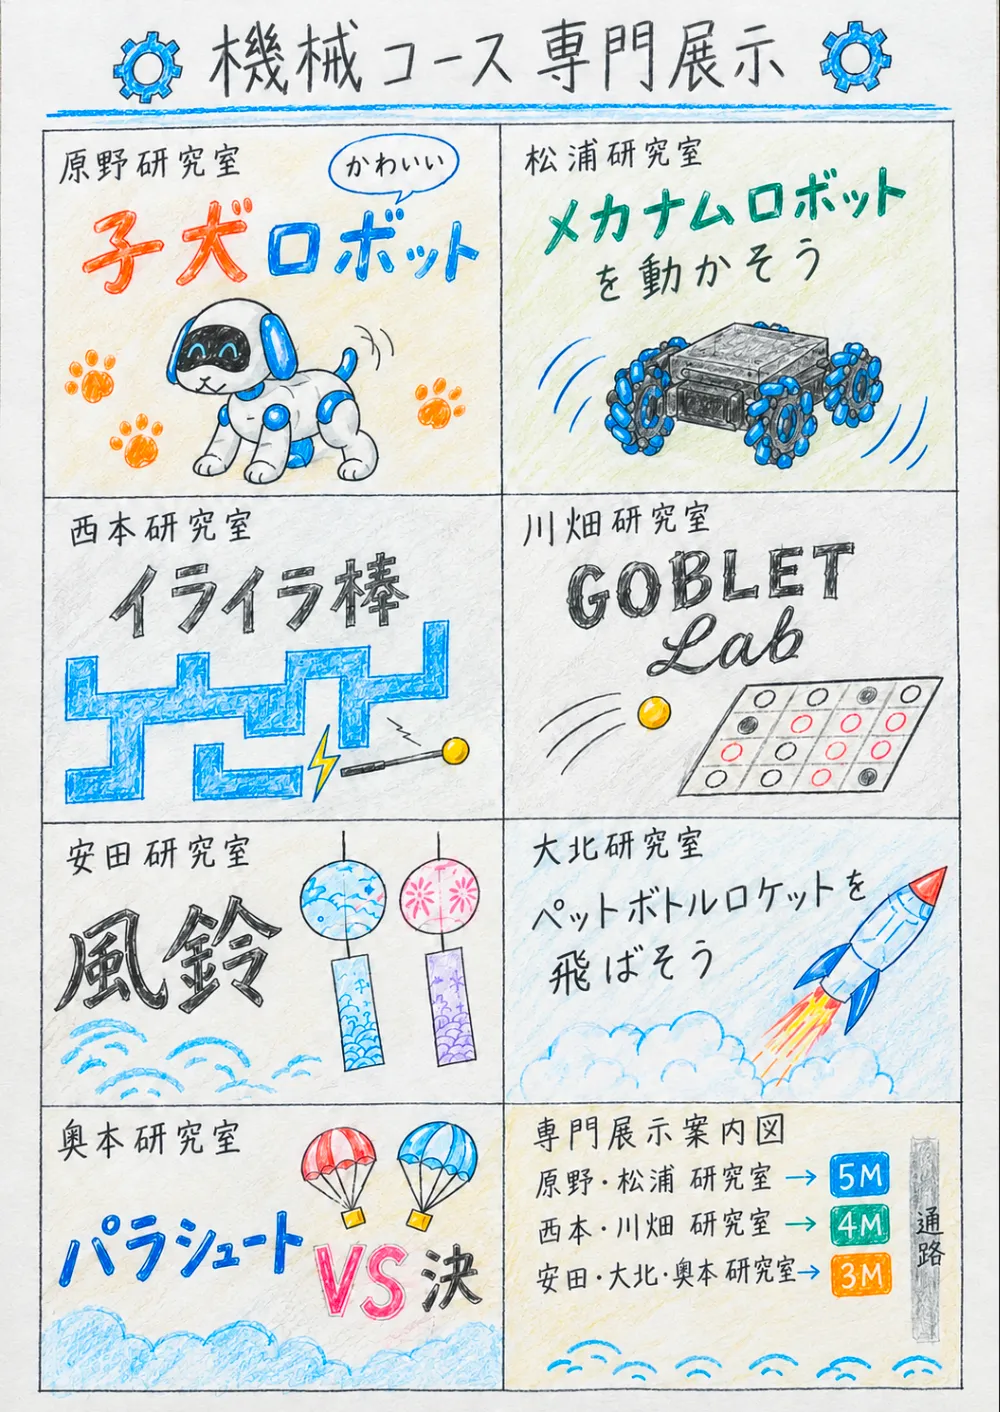
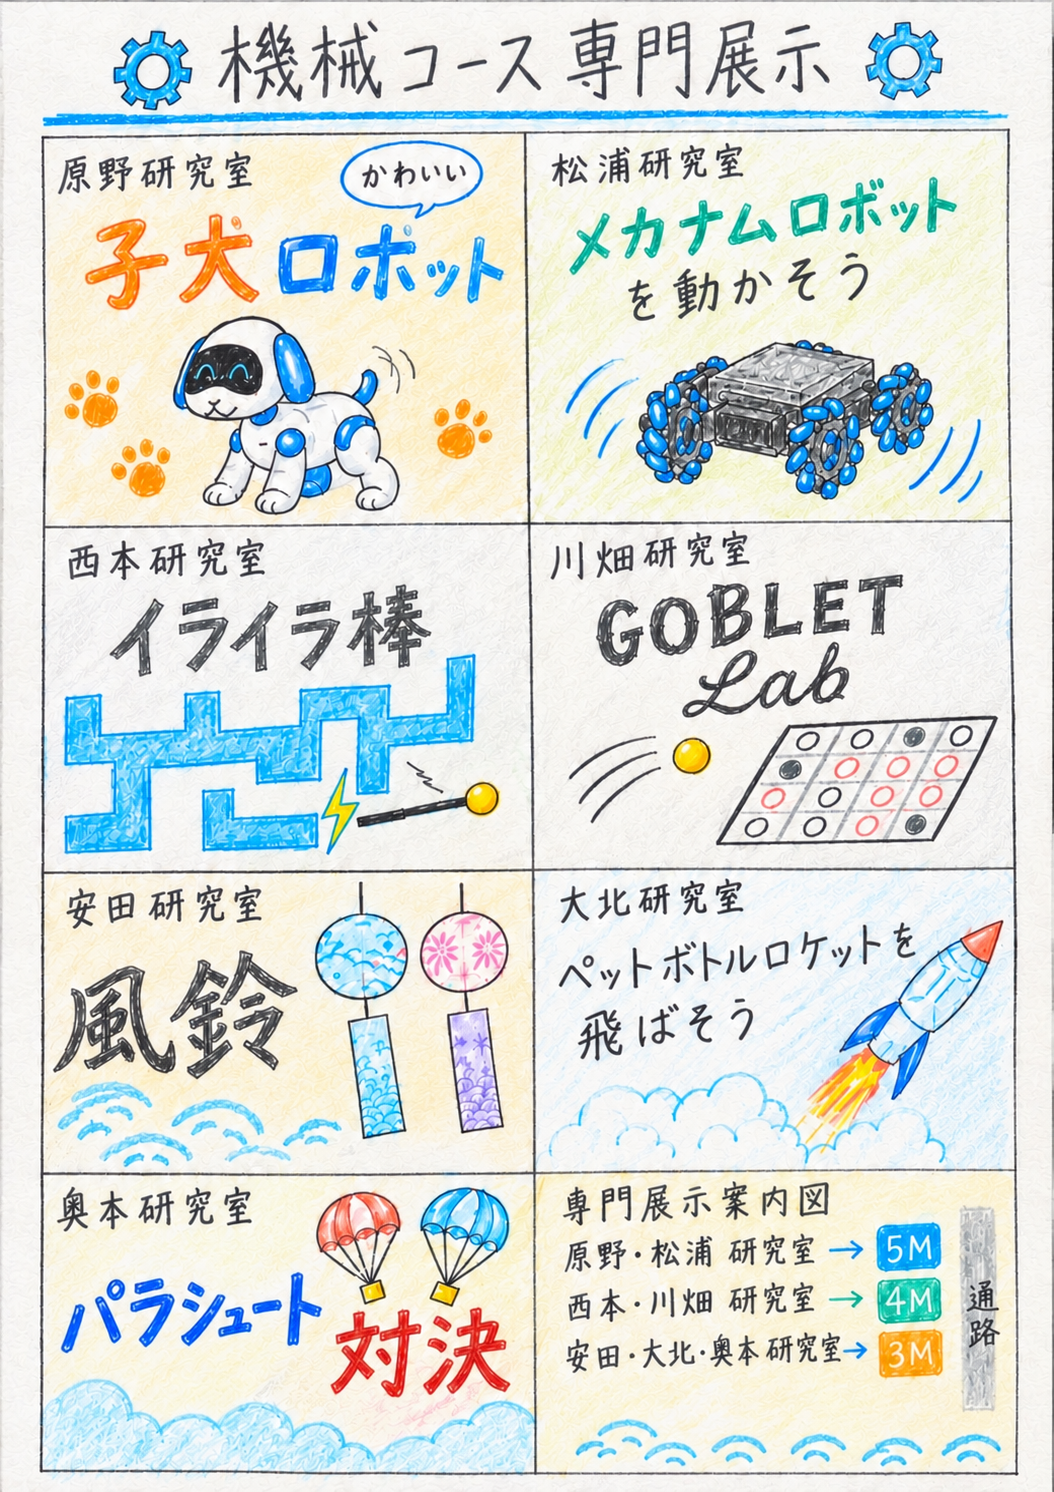
売店の値段変更

Changed region(s): [[0.031, 0.0, 1.0, 1.0]]

diff --git a/scripts/food.js b/scripts/food.js
@@ -28,7 +28,7 @@ const foodItems = [
     { club: "棋道部",       name: "アメリカンドッグ",category: "club", image: "images/foods/amerikandog.webp", price: "250円\nマスタード +50円", detail: "" },
     { club: "野球部",       name: "餃子",            category: "club", image: "images/foods/gyoza.webp", price: "5個 300円", detail: "" },
     { club: "バドミントン部",name: "わたあめ",       category: "club", image: "images/foods/wataame.webp", price: "150円", detail: "" },
-    { club: "陸上部",       name: "アイス",          category: "club", image: "images/foods/aisukurimu.webp", price: "150円", detail: "" },
+    { club: "陸上部",       name: "アイス",          category: "club", image: "images/foods/aisukurimu.webp", price: "200円\nダブル 300円", detail: "" },
     { club: "バレー部",     name: "ドーナツ",        category: "club", image: "images/foods/donattsu.webp", price: "300円", detail: "" },
     { club: "ロボット研究部",     name: "ジュース",        category: "club", image: "images/foods/jusu.webp", price: "100円\n150円\n200円", detail: "" },
     { club: "サッカー部",   name: "駄菓子",          category: "club", image: "images/foods/dagashi.webp", price: "Aセット 150円\nBセット 300円\nCセット 350円\nDセット 250円", detail: "" },
